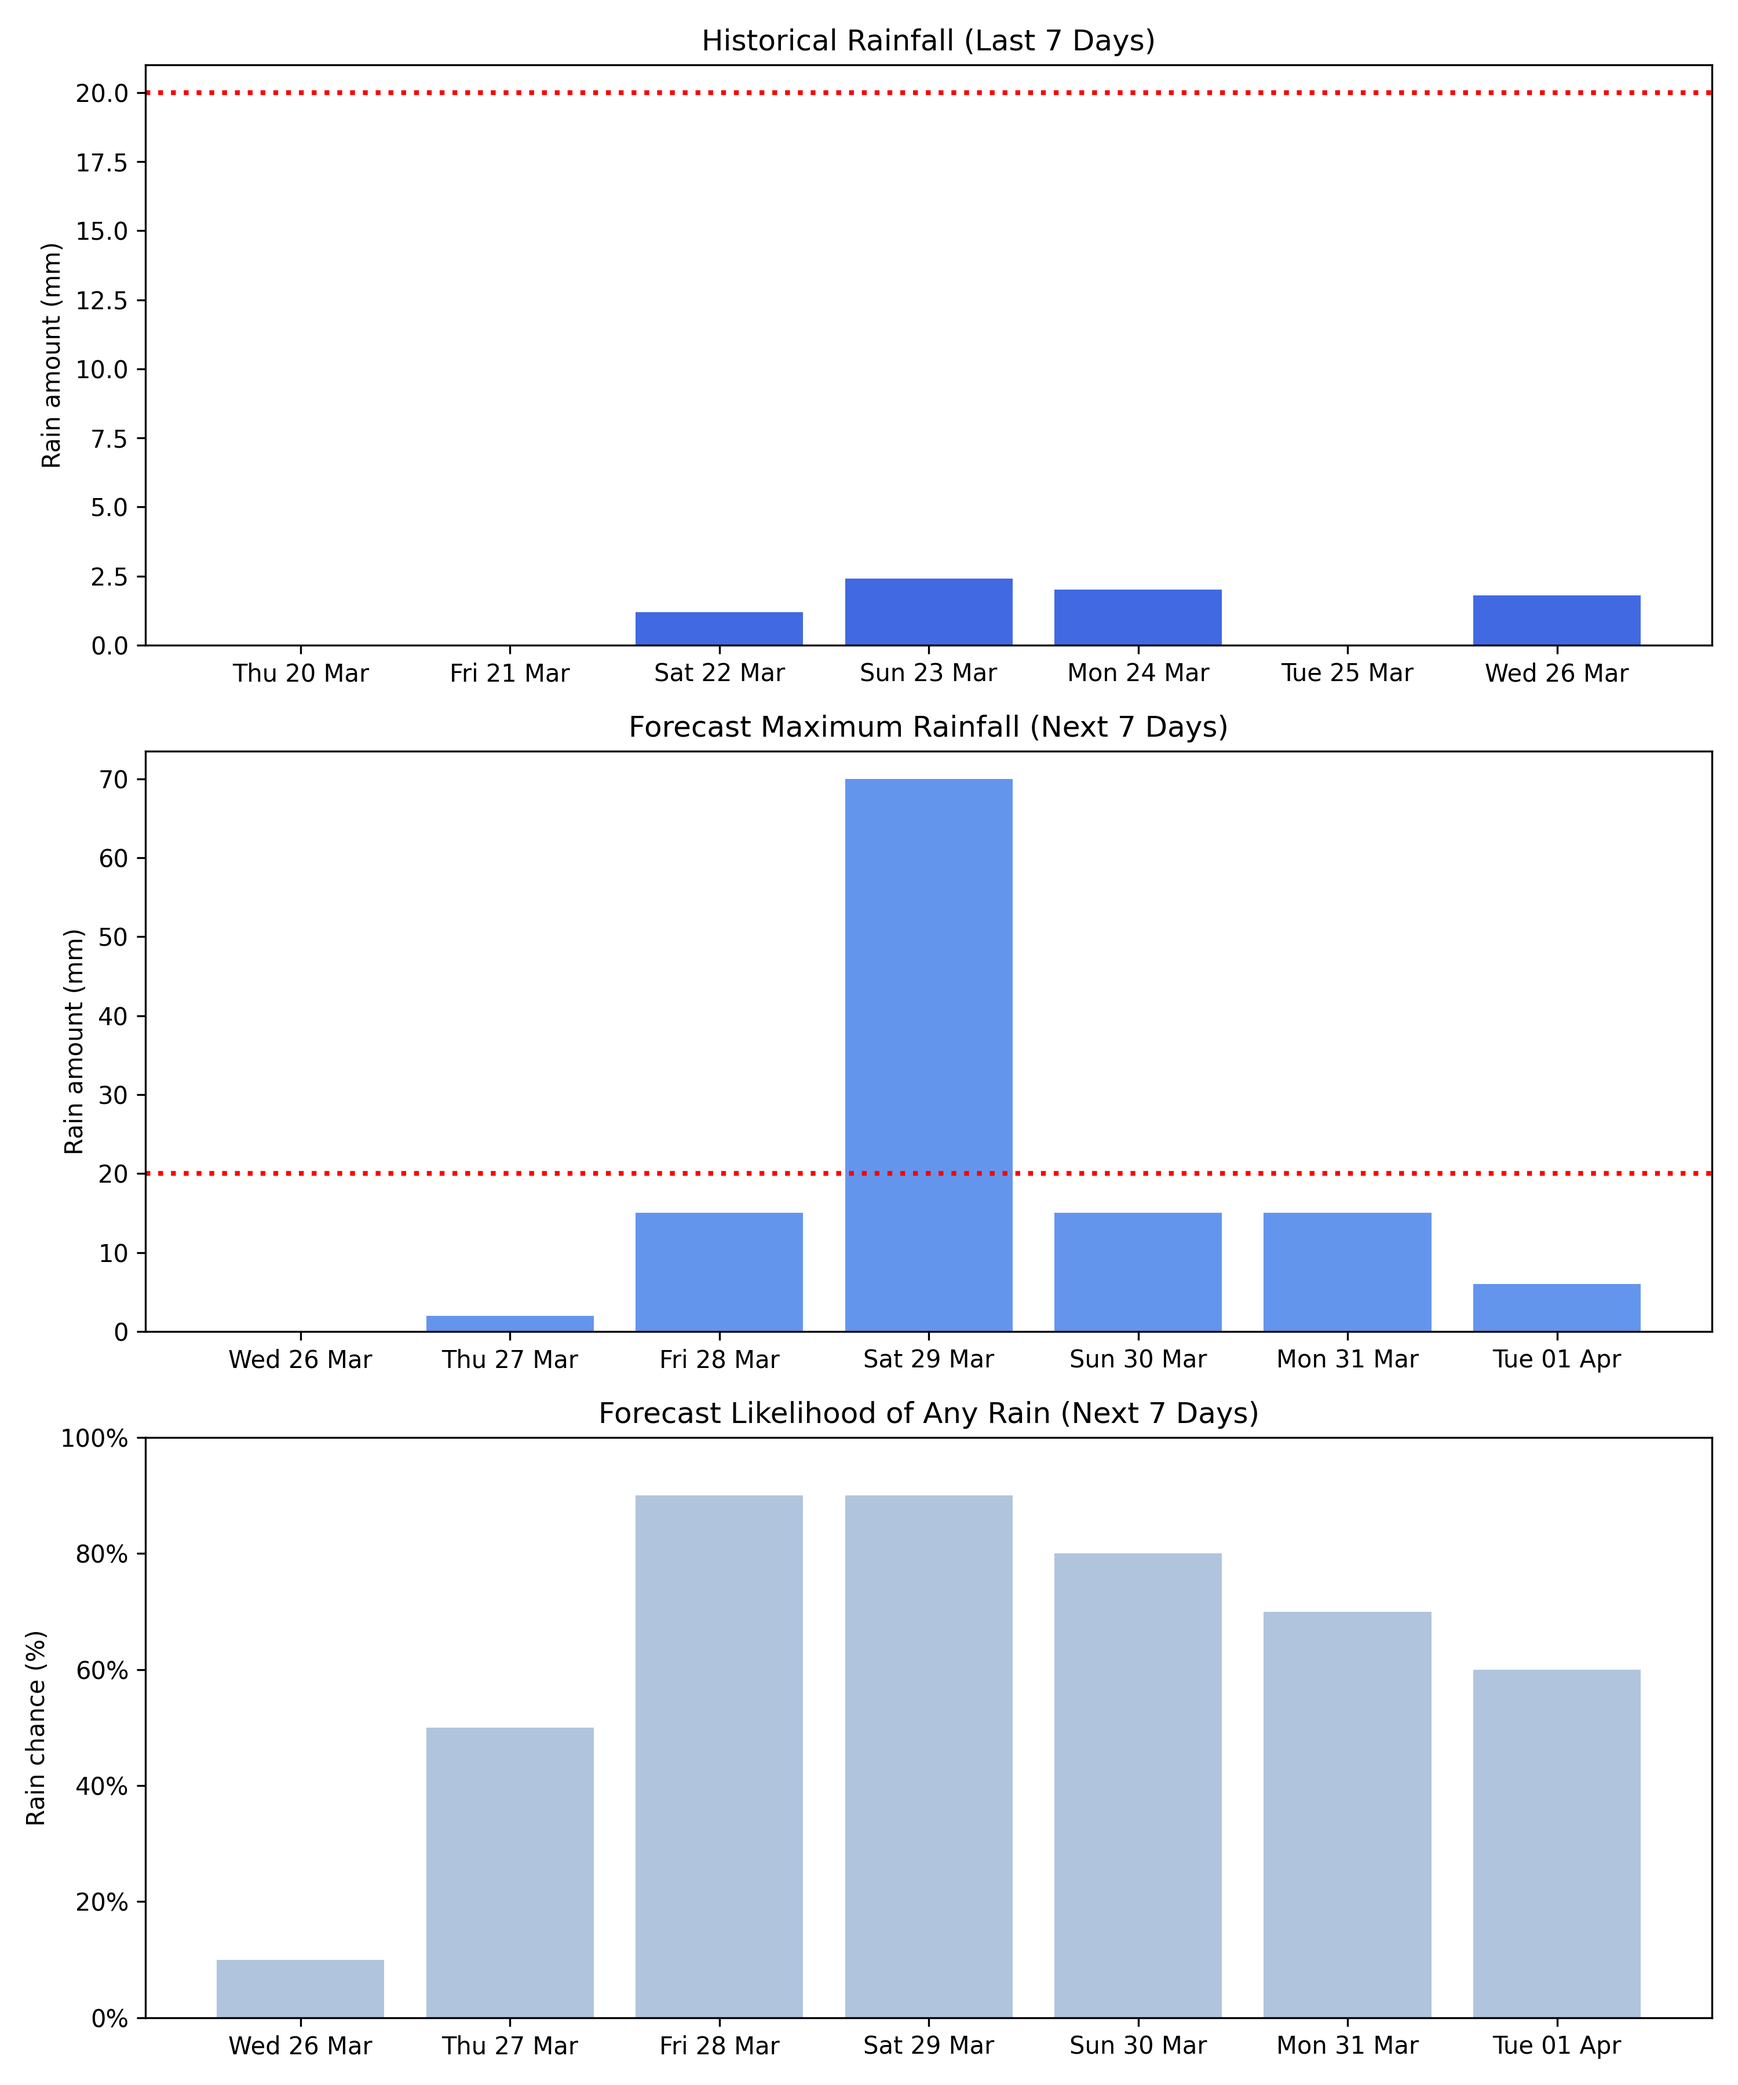
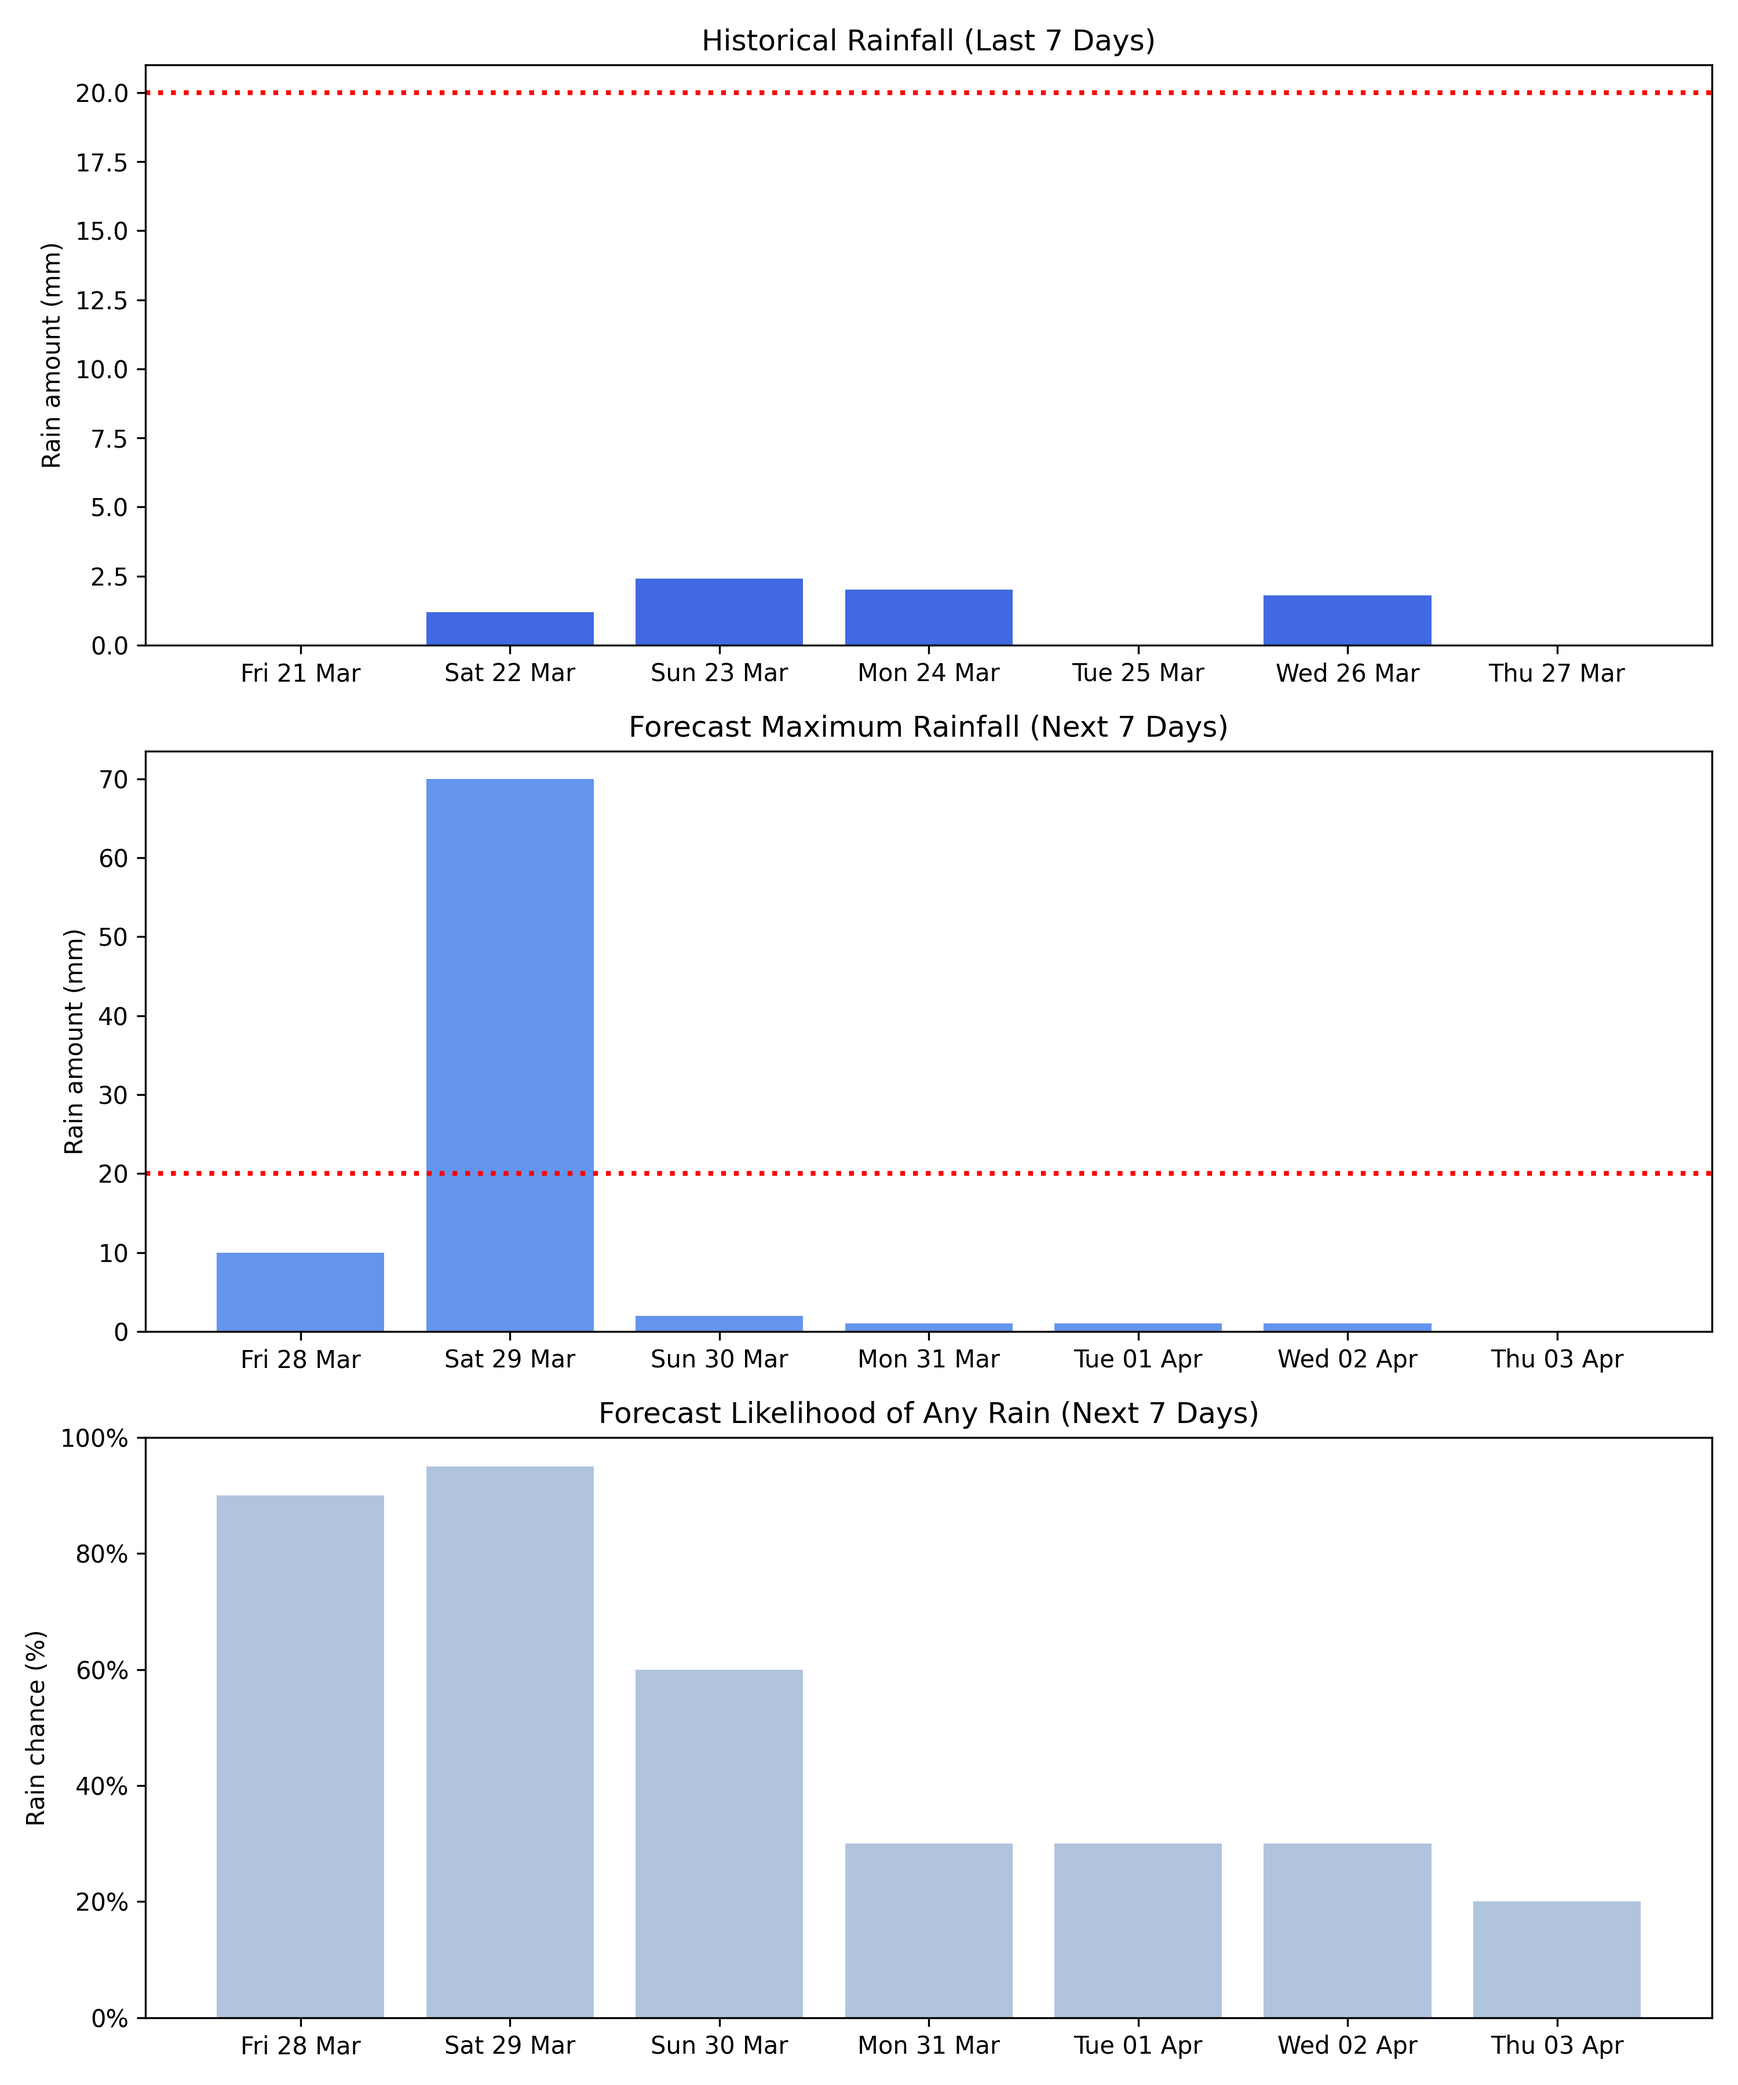
observed non zero min rainfall figures; last time committing daily_run.log and forecast.png (added to gitignore)

diff --git a/devlog.md b/devlog.md
@@ -22,6 +22,10 @@ A place to park ideas for future work, to allow me to better focus on the task a
 
 These are broadly in reverse chronological order (i.e. oldest stuff is at the bottom)
 
+## Minimum rainfall is actually used
+
+As at 9:30AM on Fri 28/3/25, the forecast for today is 1-10 mm and tomorrow is 20-70mm, so the min mm, while almost always 0mm, does actually take values >0mm from time to time. Luckily the data is being saved to the database, so I can always decide to add it into prepare_data.py and/or create_plots.py at some point in the future.
+
 ## Adding source to path
 
 I had add_src_to_path.py in my scripts folder and removed it to make things more tidy. I'm putting the code here as a reminder to consider discussing this in blog post
